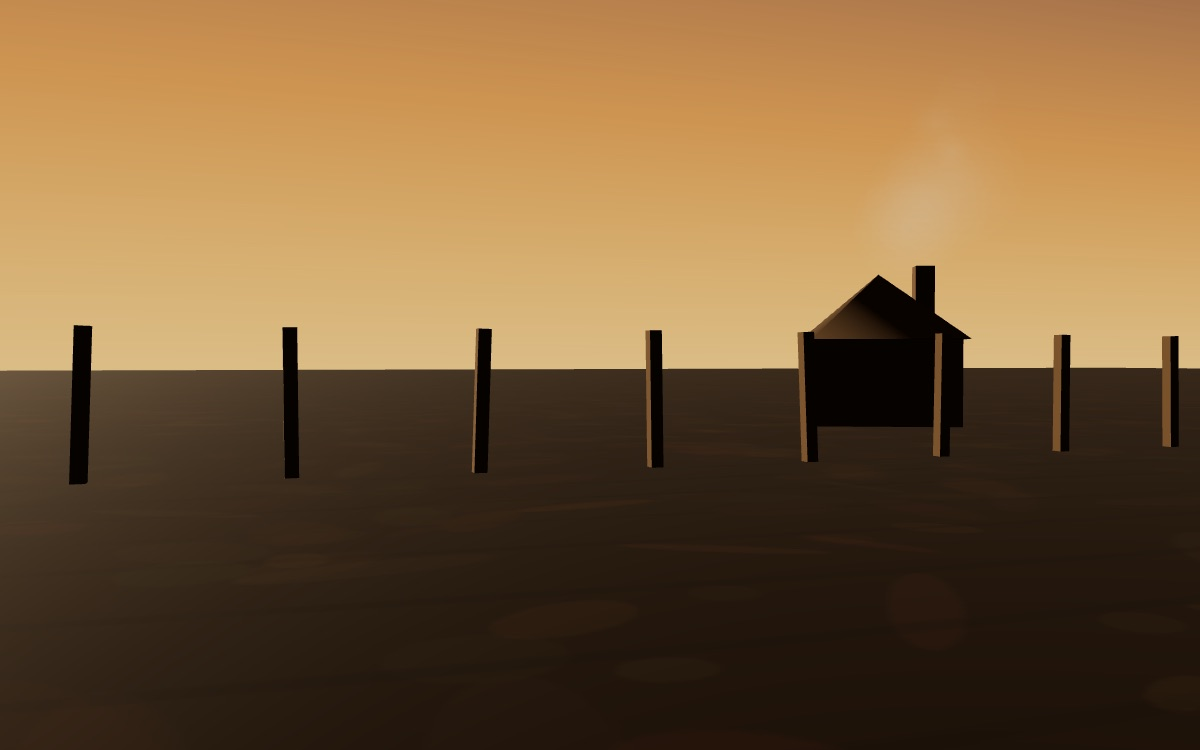
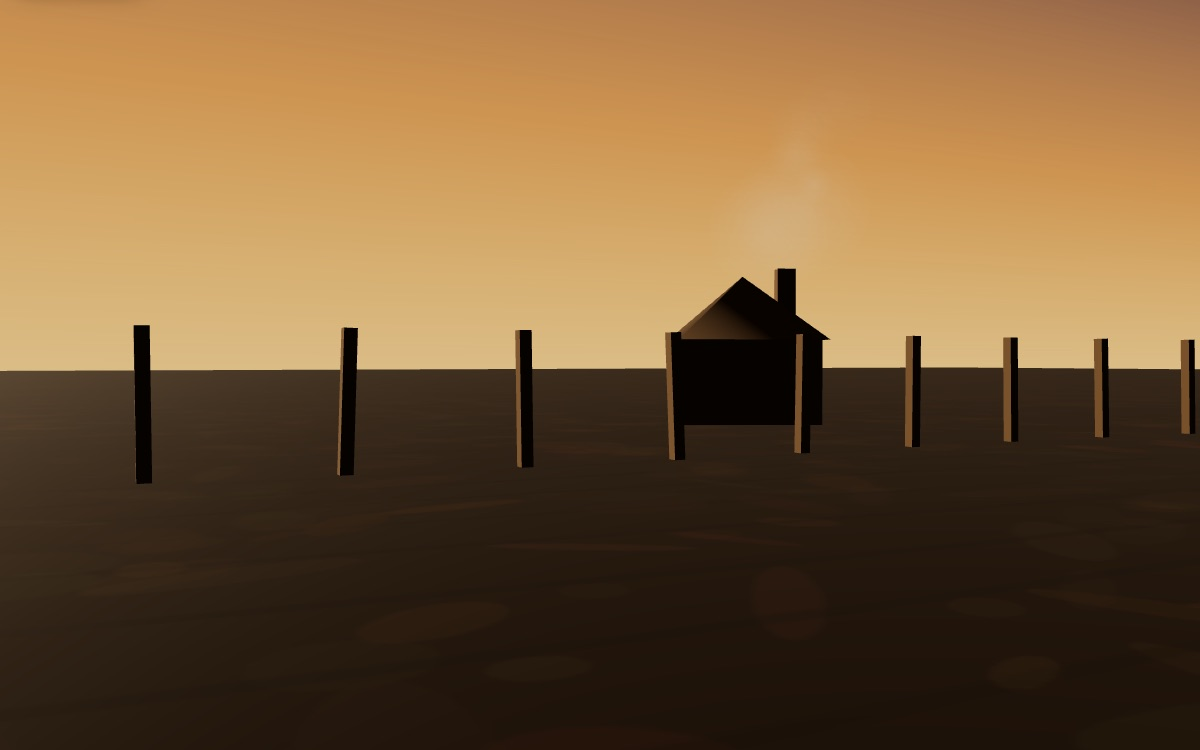
Glossaire : accumulation-primitive réécrite selon la charte, direction artistique « le plan de clôture »

diff --git a/glossaire/mondes/accumulation-primitive/essai.html b/glossaire/mondes/accumulation-primitive/essai.html
@@ -1,50 +1,79 @@
-<!-- L'ESSAI — le corps de /glossaire/accumulation-primitive. Même contrat que
-     les autres dossiers : data-s="8" = Huitième section de Roy (ch. XXVI–XXXIII),
-     « L'accumulation primitive ». Toutes les citations sont relevées dans le
-     texte que la liseuse sert, et chacune mène au passage. -->
+<!-- L'ESSAI : le corps de /glossaire/accumulation-primitive.
+     Fragment HTML, assemblé par tools/gen-seo.mjs dans le gabarit des pages
+     de notion (avec meta.json pour la tête, l'appareil et le monde).
+     Réécrit en octobre 2026 selon glossaire/mondes/CHARTE.md.
+     data-s="8" = huitième section de Roy (chapitres XXVI à XXXIII),
+     « L'accumulation primitive ». Chaque data-q est une phrase RELEVÉE dans le
+     texte que la liseuse sert, apostrophe typographique comprise : c'est elle
+     qui fait le deep-link #s=&q= vers le passage. -->
 
 <section class="nt-sec" data-etape="cercle" id="cercle">
-<h2>Un cercle dont il faut sortir</h2>
-<p>Le Livre&nbsp;I s'achève sur une question qu'il a lui-même rendue nécessaire, et il faut voir en quoi elle l'est pour comprendre pourquoi elle vient à la fin plutôt qu'au commencement. Tout ce qui précède a montré comment l'argent devient capital, comment le capital tire de la <a href="/glossaire/force-de-travail">force de travail</a> une <a href="/glossaire/plus-value">plus-value</a>, et comment cette plus-value, capitalisée, devient capital nouveau. Mais chacun de ces moments en suppose un autre&nbsp;: l'accumulation suppose la plus-value, la plus-value suppose la production capitaliste, et celle-ci suppose que se trouvent déjà rassemblées, d'un côté, des masses de moyens de production, de l'autre, des hommes qui n'ont que leurs bras. <q data-s="8" data-q="Tout ce mouvement semble donc tourner dans un cercle vicieux">Tout ce mouvement semble donc tourner dans un cercle vicieux</q>, et l'on n'en sort qu'en admettant une accumulation antérieure à l'accumulation capitaliste, celle qu'Adam Smith appelait <i>previous accumulation</i> et que Marx nommera primitive.</p>
-<p>Or l'économie politique, dès qu'elle touche à cette origine, cesse d'analyser et se met à raconter. Marx relève la substitution avec une ironie qui n'est pas seulement d'humeur, car elle désigne exactement le vice de la méthode&nbsp;:</p>
+<h2>D'où vient le premier capital&nbsp;?</h2>
+<p class="nt-lead">Les économistes répondaient par une fable&nbsp;: des gens économes auraient amassé pendant que d'autres dépensaient tout. Marx montre que cette fable tourne en rond, et que l'histoire réelle raconte une conquête.</p>
+<p>Le Livre&nbsp;I du <i>Capital</i> a expliqué comment l'argent devient capital&nbsp;: le capitaliste achète la <a href="/glossaire/force-de-travail">force de travail</a> d'un ouvrier, la fait travailler plus longtemps qu'il ne faut pour en reproduire la valeur, et empoche la différence, la <a href="/glossaire/plus-value">plus-value</a>. Cette plus-value, réinvestie, devient à son tour du capital. Chaque étape suppose pourtant la précédente. Pour qu'il y ait accumulation, il faut de la plus-value&nbsp;; pour qu'il y ait plus-value, il faut que se rencontrent sur le marché des possesseurs de moyens de production et des hommes qui n'ont que leurs bras. D'où viennent ces deux groupes&nbsp;? <q data-s="8" data-q="Tout ce mouvement semble donc tourner dans un cercle vicieux">Tout ce mouvement semble donc tourner dans un cercle vicieux</q>.</p>
+<p>Pour en sortir, il faut admettre une accumulation qui précède l'accumulation capitaliste et lui sert de point de départ. Adam Smith l'appelait <i lang="en">previous accumulation</i>&nbsp;; Roy traduit «&nbsp;accumulation primitive&nbsp;». Marx reprend le terme, mais il remarque aussitôt que l'économie politique, arrivée à ce point, cesse d'analyser et se met à raconter&nbsp;:</p>
 <blockquote data-s="8" data-q="Cette accumulation primitive joue dans l’économie politique à peu près le même rôle que le péché originel dans la théologie"><p>Cette accumulation primitive joue dans l’économie politique à peu près le même rôle que le péché originel dans la théologie. Adam mordit la pomme, et voilà le péché qui fait son entrée dans le monde.</p></blockquote>
-<p>La fable est connue&nbsp;: il y eut jadis, d'un côté, une élite diligente et économe, de l'autre des vauriens dissipant leur avoir&nbsp;; les premiers accumulèrent, les seconds n'eurent bientôt plus rien à vendre que leur peau. Ce récit a la forme d'une explication et n'en a pas la fonction, car il présuppose ce qu'il devrait établir&nbsp;: que le rapport entre celui qui possède et celui qui travaille soit un rapport d'achat et de vente. Marx lui oppose non pas une autre fable, mais une enquête&nbsp;: <q data-s="8" data-q="Dans les annales de l’histoire réelle, c’est la conquête, l’asservissement, la rapine à main armée, le règne de la force brutale, qui l’a toujours emporté">dans les annales de l'histoire réelle, c'est la conquête, l'asservissement, la rapine à main armée, le règne de la force brutale, qui l'a toujours emporté</q>.</p>
+<p>Le récit est connu. Il y aurait eu autrefois, d'un côté, une élite laborieuse, intelligente et ménagère, de l'autre une bande de coquins qui dépensaient tout. Les premiers ont entassé des trésors, les seconds n'ont bientôt plus rien eu à vendre que leur peau. Ce récit a l'allure d'une explication, mais il suppose ce qu'il devrait établir, puisqu'il imagine déjà des acheteurs et des vendeurs de travail. Marx lui oppose une enquête, et sa conclusion tient en une phrase&nbsp;: <q data-s="8" data-q="Dans les annales de l’histoire réelle, c’est la conquête, l’asservissement, la rapine à main armée, le règne de la force brutale, qui l’a toujours emporté">dans les annales de l'histoire réelle, c'est la conquête, l'asservissement, la rapine à main armée, le règne de la force brutale, qui l'a toujours emporté</q>.</p>
 </section>
 
 <section class="nt-sec" data-etape="ou" id="ou">
-<h2>Où Marx la pose&nbsp;: à la fin, et non au début</h2>
-<p>La place du concept dans le livre est elle-même un argument, et l'on manque le concept si l'on ne s'y arrête pas. L'accumulation primitive est le présupposé de tout le reste&nbsp;: sans elle, pas de vendeurs de force de travail, donc pas de plus-value, donc pas de capital. Un exposé qui suivrait l'ordre des choses commencerait par là. Marx en fait la huitième et dernière section, après que le mécanisme entier a été démonté.</p>
-<p>Ce n'est pas une négligence de composition. Tant qu'on n'a pas établi ce qu'est le capital — non une chose, mais un rapport social entre des hommes dont les uns détiennent les moyens de produire et les autres non —, on ne sait pas ce qu'il faut chercher dans le passé. On y chercherait des richesses, des trésors, des épargnes, et l'on trouverait des trésors dans toutes les sociétés sans y trouver jamais de capital. Une fois le rapport connu, la question historique devient précise&nbsp;: comment ce rapport-là s'est-il institué&nbsp;? L'ordre d'exposition inverse donc l'ordre des choses, et c'est ce qui permet à l'enquête historique d'être autre chose qu'une collection d'anecdotes.</p>
-<p>Le terrain de l'enquête est daté et localisé, ce qui distingue encore ces chapitres d'une origine mythique&nbsp;: l'Angleterre du quinzième au dix-huitième siècle, l'expropriation des cultivateurs, la législation sur les pauvres et les salaires, la genèse coloniale. Marx le dit sans détour&nbsp;: <q data-s="8" data-q="Mais la base de toute cette évolution, c’est l’expropriation des cultivateurs">mais la base de toute cette évolution, c'est l'expropriation des cultivateurs</q>, et elle ne s'est accomplie radicalement qu'en Angleterre, qui joue pour cette raison le premier rôle dans l'esquisse.</p>
+<h2>Pourquoi Marx en parle-t-il à la fin du livre&nbsp;?</h2>
+<p class="nt-lead">Parce qu'il faut savoir ce qu'est le capital avant de chercher son origine. Le capital étant un rapport entre des hommes, c'est la naissance de ce rapport qu'on doit retrouver dans le passé.</p>
+<p>L'accumulation primitive vient en premier dans l'ordre des choses&nbsp;: sans elle, pas de vendeurs de force de travail, donc pas de plus-value et pas de capital. Marx en fait pourtant la huitième et dernière section du livre, après avoir démonté tout le mécanisme. Le choix a une raison. Celui qui chercherait l'origine du capital sans savoir ce qu'il est chercherait des richesses, des trésors, des sommes épargnées. Il en trouverait dans presque toutes les sociétés, sans jamais y trouver de capital. Une fois établi que le capital est un rapport social, la question historique devient précise&nbsp;: comment des hommes en sont-ils venus à n'avoir rien d'autre à vendre que leur travail&nbsp;?</p>
+<div class="nt-ex">
+<p class="nt-ex-t">Un exemple, chez Marx</p>
+<p>Au dernier chapitre du livre, Marx raconte une mésaventure qu'il trouve chez l'économiste Edward Gibbon Wakefield. Un certain M.&nbsp;Peel part d'Angleterre pour Swan River, en Australie. Il emporte des vivres et des moyens de production pour cinquante mille livres sterling, et il a la prévoyance d'emmener trois mille personnes de la classe ouvrière, hommes, femmes et enfants. Une fois arrivé, il ne lui reste pas un domestique pour faire son lit ou lui puiser de l'eau.</p>
+<p>Ses ouvriers n'ont rien volé. Dans une colonie où la terre est encore libre, chacun peut s'établir à son compte, et personne n'est obligé de vendre son travail à M.&nbsp;Peel. Marx conclut avec ironie qu'<q data-s="8" data-q="Il n’avait oublié que d’exporter au Swan River les rapports de production anglais">il n'avait oublié que d'exporter au Swan River les rapports de production anglais</q>. L'argent, les outils et les hommes étaient là&nbsp;; le capital manquait, parce que manquait la séparation.</p>
+</div>
+<p>Le terrain de l'enquête est daté et situé, ce qui distingue ces chapitres d'un mythe des origines&nbsp;: l'Angleterre de la fin du quinzième siècle au milieu du dix-neuvième. Tous les pays d'Europe occidentale suivent le même mouvement, mais c'est en Angleterre qu'il a été mené jusqu'au bout, et Marx y prend ses exemples. Il ajoute&nbsp;: <q data-s="8" data-q="Mais la base de toute cette évolution, c’est l’expropriation des cultivateurs">mais la base de toute cette évolution, c'est l'expropriation des cultivateurs</q>.</p>
 </section>
 
 <section class="nt-sec" data-etape="separation" id="separation">
-<h2>La distinction qui fait le concept&nbsp;: séparer n'est pas amasser</h2>
-<p>Tout tient dans un déplacement du sens du mot <i>accumulation</i>, et c'est le cœur de la notion. On entend d'ordinaire par accumuler&nbsp;: mettre de côté, entasser, faire une masse. Si l'accumulation primitive était cela, elle serait une épargne très ancienne, et le capitalisme s'expliquerait par la frugalité. Or ce que Marx décrit n'est pas un entassement mais une <b>séparation</b>&nbsp;:</p>
+<h2>Que faut-il expliquer&nbsp;: une richesse amassée, ou une séparation&nbsp;?</h2>
+<p class="nt-lead">Une séparation. L'accumulation primitive est le processus qui a retiré aux producteurs la terre et les outils qui leur permettaient de vivre sans vendre leur travail.</p>
+<p>Le mot «&nbsp;accumulation&nbsp;» égare. On entend d'ordinaire par là mettre de côté, entasser. Si l'accumulation primitive était cela, elle serait une épargne très ancienne, et la fable des économistes aurait raison. Marx déplace la question&nbsp;:</p>
 <blockquote data-s="8" data-q="Au fond du système capitaliste il y a donc la séparation radicale du producteur d’avec les moyens de production"><p>Au fond du système capitaliste il y a donc la séparation radicale du producteur d’avec les moyens de production. Cette séparation se reproduit sur une échelle progressive dès que le système capitaliste s’est une fois établi&nbsp;; mais comme celle-là forme la base de celui-ci, il faut expliquer d’abord comment elle a pu s’opérer.</p></blockquote>
-<p>La distinction est décisive, en cela qu'elle change ce qu'il faut expliquer. Il ne s'agit plus de comprendre comment des richesses se sont amassées d'un côté — il y a toujours eu des riches —, mais comment une population entière a cessé d'avoir accès à ce qui lui permettait de vivre sans vendre son travail. La terre, l'outil, le droit d'usage sur les communaux&nbsp;: ce n'est pas parce que le capital les a pris qu'il est capital, c'est parce qu'ils ont été retirés à ceux qui les employaient que le travail a dû, lui, aller se vendre.</p>
-<p>De là le double sens du mot <i>libre</i>, sur lequel Marx insiste et que l'on ne peut pas rendre autrement qu'en le disant deux fois. Pour vendre sa force, il fallait d'abord que le producteur <q data-s="8" data-q="cesser d’être attaché à la glèbe">cesse d'être attaché à la glèbe</q> et échappe au régime des corporations&nbsp;: à ce titre, l'histoire est bien celle d'une émancipation, et <q data-s="8" data-q="Le mouvement historique qui convertit les producteurs en salariés se présente donc comme leur affranchissement du servage et de la hiérarchie industrielle">le mouvement historique qui convertit les producteurs en salariés se présente donc comme leur affranchissement du servage et de la hiérarchie industrielle</q>. Mais l'affranchissement ne suffit pas à faire un vendeur&nbsp;: <q data-s="8" data-q="ces affranchis ne deviennent vendeurs d’eux-mêmes qu’après avoir été dépouillés de tous leurs moyens de production">ces affranchis ne deviennent vendeurs d'eux-mêmes qu'après avoir été dépouillés de tous leurs moyens de production</q> et des garanties que l'ancien ordre leur offrait. Libre de sa personne, et libre de tout le reste&nbsp;: la seconde liberté est le nom poli d'une dépossession, et c'est elle qui fait le marché du travail.</p>
+<p>Ce qu'il faut expliquer change du même coup. Des riches, il y en a toujours eu. Ce qui est neuf, c'est qu'une population entière perde l'accès à ce qui la faisait vivre&nbsp;: la parcelle, l'outil, le droit de mener ses bêtes sur les terres communes et d'y prendre du bois. Les moyens de production, c'est-à-dire tout ce qui sert à produire (la terre, les instruments, les matières), deviennent la propriété de quelques-uns. Les autres doivent aller se vendre pour vivre.</p>
+<p>D'où le double sens que prend ici le mot «&nbsp;libre&nbsp;». Pour vendre sa force de travail, le producteur devait d'abord <q data-s="8" data-q="cesser d’être attaché à la glèbe">cesser d'être attaché à la glèbe</q> et sortir du régime des corporations. L'histoire est donc aussi celle d'une émancipation&nbsp;: <q data-s="8" data-q="Le mouvement historique qui convertit les producteurs en salariés se présente donc comme leur affranchissement du servage et de la hiérarchie industrielle">le mouvement historique qui convertit les producteurs en salariés se présente donc comme leur affranchissement du servage et de la hiérarchie industrielle</q>. Mais un homme libre de sa personne n'est pas encore un vendeur. <q data-s="8" data-q="ces affranchis ne deviennent vendeurs d’eux-mêmes qu’après avoir été dépouillés de tous leurs moyens de production">Ces affranchis ne deviennent vendeurs d'eux-mêmes qu'après avoir été dépouillés de tous leurs moyens de production</q>. Le salarié est libre deux fois&nbsp;: libre de vendre son travail à qui il veut, et libre de tout ce qui lui aurait permis de ne pas le vendre. La seconde liberté est le nom poli d'une dépossession.</p>
 </section>
 
 <section class="nt-sec" data-etape="procedes" id="procedes">
-<h2>Le mécanisme&nbsp;: ce qui a fallu faire, et qui l'a fait</h2>
-<p>L'enquête occupe six chapitres, et elle est faite de faits, de dates et de statuts. On y suit la dissolution des suites féodales, les enclosures et l'usurpation des terrains communaux, la transformation des terres d'Église en propriété privée après la Réforme, puis le <i>clearing of estates</i> qui balaie jusqu'aux villages. Marx en donne le relevé dans une phrase dont l'ironie est le seul commentaire&nbsp;:</p>
+<h2>Comment cette séparation s'est-elle faite&nbsp;?</h2>
+<p class="nt-lead">Par la force, puis par la loi. Marx suit en Angleterre la clôture des terres et l'expulsion des paysans, puis les lois qui ont contraint les expulsés à l'atelier.</p>
+<p>Le premier moteur est la laine. Les manufactures de Flandre en achètent toujours davantage, son prix monte, et la nouvelle noblesse anglaise, née après la guerre des Deux-Roses qui a dévoré l'ancienne, voit dans l'argent la puissance des puissances. <q data-s="8" data-q="Transformation des terres arables en pâturages, tel fut son cri de guerre">Transformation des terres arables en pâturages, tel fut son cri de guerre</q>. On clôt les champs ouverts et les terrains communaux, on démolit les fermes, on remplace les laboureurs par des troupeaux. Viennent ensuite la confiscation des biens de l'Église après la Réforme, puis, jusqu'au dix-neuvième siècle, ce que les Anglais appellent <i lang="en">clearing of estates</i>, le «&nbsp;nettoyage&nbsp;» des domaines. Marx en dresse le bilan dans une phrase dont l'ironie fait tout le commentaire&nbsp;:</p>
 <blockquote data-s="8" data-q="la guerre aux chaumières, voilà les procédés idylliques de l’accumulation primitive"><p>[…] le vol des biens de l’Église, l’aliénation frauduleuse des domaines de l’État, le pillage des terrains communaux, la transformation usurpatrice et terroriste de la propriété féodale ou même patriarcale en propriété moderne privée, la guerre aux chaumières, voilà les procédés idylliques de l’accumulation primitive.</p></blockquote>
-<p>Le résultat de ces procédés n'est pas seulement une redistribution de la terre&nbsp;: c'est la production d'hommes disponibles. Ils ont, écrit Marx, <q data-s="8" data-q="livré à l’industrie des villes les bras dociles d’un prolétariat sans feu ni lieu">livré à l'industrie des villes les bras dociles d'un prolétariat sans feu ni lieu</q>. Encore ces hommes ne se rangent-ils pas d'eux-mêmes à la discipline de l'atelier&nbsp;; jetés hors de leurs conditions d'existence plus vite que la manufacture naissante ne peut les absorber, ils vagabondent, et l'on répond au vagabondage par le fouet, la marque au fer et la potence. Le chapitre XXVIII est consacré à cette législation, et sa conclusion est d'une netteté qu'aucune paraphrase n'améliore&nbsp;: la population des campagnes, violemment expropriée, <q data-s="8" data-q="a été rompue à la discipline qu’exige le système du salariat par des lois d’un terrorisme grotesque">a été rompue à la discipline qu'exige le système du salariat par des lois d'un terrorisme grotesque</q>.</p>
-<p>Un troisième moment complète le tableau, et il déborde l'Angleterre&nbsp;: la genèse du capitaliste industriel, faite du système colonial, des dettes publiques, du régime fiscal et du protectionnisme. Marx y range, du même ton, la découverte des gisements d'or et d'argent en Amérique, l'ensevelissement des populations indigènes dans les mines, le pillage des Indes orientales et <q data-s="8" data-q="la transformation de l’Afrique en une sorte de garenne commerciale pour la chasse aux peaux noires">la transformation de l'Afrique en une sorte de garenne commerciale pour la chasse aux peaux noires</q>. Ce sont là, dit-il, les procédés qui signalent l'ère capitaliste à son aurore. On voit ce que l'expression « accumulation primitive » recouvre, et pourquoi Marx refuse d'en parler comme d'une épargne&nbsp;: <q data-s="8" data-q="elle est écrite dans les annales de l’humanité en lettres de sang et de feu indélébiles">elle est écrite dans les annales de l'humanité en lettres de sang et de feu indélébiles</q>.</p>
+<div class="nt-ex">
+<p class="nt-ex-t">Un exemple, chez Marx&nbsp;: le comté de Sutherland</p>
+<p>Au nord de l'Écosse, les terres appartenaient au clan depuis des siècles. Au début du dix-neuvième siècle, la duchesse de Sutherland décide de faire de tout le comté un pâturage. Marx donne les chiffres&nbsp;: <q data-s="8" data-q="De 1814 à 1820, ces quinze mille individus, formant environ trois mille familles, furent systématiquement expulsés">de 1814 à 1820, ces quinze mille individus, formant environ trois mille familles, furent systématiquement expulsés</q>. <q data-s="8" data-q="Leurs villages furent détruits et brûlés, leurs champs convertis en pâturages">Leurs villages furent détruits et brûlés, leurs champs convertis en pâturages</q>, et des soldats prêtèrent main-forte.</p>
+<p>La terre conquise est partagée en vingt-neuf grandes fermes à moutons. En 1825, d'après le même chapitre, cent trente et un mille moutons ont pris la place des quinze mille habitants. Une partie des expulsés reçoit des terres incultes au bord de la mer, et la duchesse les leur afferme. Ils se font pêcheurs&nbsp;; Marx rapporte qu'on les chassera une seconde fois, quand le rivage sera affermé à de gros mareyeurs de Londres.</p>
+</div>
+<div data-planche="grummore"></div>
+<p>L'expulsion produit des hommes disponibles. Ces procédés, écrit Marx, ont <q data-s="8" data-q="livré à l’industrie des villes les bras dociles d’un prolétariat sans feu ni lieu">livré à l'industrie des villes les bras dociles d'un prolétariat sans feu ni lieu</q>. Encore ces hommes ne se rangent-ils pas d'eux-mêmes à la discipline de l'atelier. Chassés plus vite que la manufacture ne peut les employer, ils mendient et vagabondent, et l'on répond par le fouet, le fer rouge et la potence. Le chapitre XXVIII décrit cette législation, que le site présente à la page de la <a href="/glossaire/legislation-sanglante">législation sanglante</a>, et il conclut que la population des campagnes <q data-s="8" data-q="a été rompue à la discipline qu’exige le système du salariat par des lois d’un terrorisme grotesque">a été rompue à la discipline qu'exige le système du salariat par des lois d'un terrorisme grotesque</q>.</p>
+<p>Le tableau déborde l'Angleterre. La genèse du capitaliste industriel passe par le système colonial, les dettes publiques, l'impôt et le protectionnisme. Marx y range, du même ton, l'or et l'argent d'Amérique, les indigènes réduits en esclavage et ensevelis dans les mines, le pillage des Indes orientales et <q data-s="8" data-q="la transformation de l’Afrique en une sorte de garenne commerciale pour la chasse aux peaux noires">la transformation de l'Afrique en une sorte de garenne commerciale pour la chasse aux peaux noires</q>. On voit ce que recouvre l'expression savante. L'histoire de cette expropriation <q data-s="8" data-q="elle est écrite dans les annales de l’humanité en lettres de sang et de feu indélébiles">est écrite dans les annales de l'humanité en lettres de sang et de feu indélébiles</q>.</p>
 </section>
 
 <section class="nt-sec" data-etape="ouvre" id="ouvre">
-<h2>Ce que le concept ouvre&nbsp;: le capital a une date</h2>
-<p>La portée de ces chapitres n'est pas d'ajouter un tableau historique à une démonstration théorique achevée&nbsp;: elle est de retirer au capital le caractère de nature que l'économie politique lui prête. Si le rapport de capital a été institué, à telle époque, par tels moyens, contre telles résistances, alors il n'est ni éternel ni spontané&nbsp;: il est un fait d'histoire, et ce qui a commencé peut finir. C'est en ce sens que Marx écrit que <q data-s="8" data-q="la force est l’accoucheuse de toute vieille société en travail">la force est l'accoucheuse de toute vieille société en travail</q>, et qu'il ajoute aussitôt, contre l'idée que la violence serait extérieure à l'économie, qu'elle est elle-même <q data-s="8" data-q="La force est un agent économique">un agent économique</q>. La phrase est dirigée contre une séparation commode entre le doux commerce et la brutalité politique&nbsp;: c'est la même histoire.</p>
-<p>De là aussi le mot par lequel se ferme le chapitre XXXI, et qui est peut-être la ligne la plus dure du livre&nbsp;: si l'argent, selon Augier, est venu au monde avec une tache de sang sur la joue, <q data-s="8" data-q="le capital y arrive suant le sang et la boue par tous les pores">le capital y arrive suant le sang et la boue par tous les pores</q>.</p>
-<p>Le dernier chapitre tire de cette genèse une tendance. La production capitaliste, en centralisant les moyens de production et en socialisant le travail, produit les conditions d'un dépassement dont elle-même serait l'objet&nbsp;; le mouvement qui a exproprié la masse des petits producteurs se retourne alors contre le petit nombre qui en a bénéficié — <q data-s="8" data-q="Les expropriateurs sont à leur tour expropriés">les expropriateurs sont à leur tour expropriés</q>. Marx nomme cela <q data-s="8" data-q="C’est la négation de la négation">la négation de la négation</q>, et précise ce qu'elle rétablirait&nbsp;: non la propriété privée du travailleur d'autrefois, mais une propriété individuelle fondée sur les acquêts de l'ère capitaliste, c'est-à-dire sur la coopération et la possession commune des moyens de production. Nous tenons cette page pour une conclusion de tendance et non pour une prophétie datée&nbsp;: elle dit ce que le mouvement rend possible, non ce qu'il garantit.</p>
+<h2>Que change le fait que le capital ait une histoire&nbsp;?</h2>
+<p class="nt-lead">Il cesse d'apparaître comme un fait de nature. Ce qui a commencé à une date, par des moyens qu'on peut décrire, peut aussi finir.</p>
+<p>L'économie politique présentait le rapport entre le capitaliste et le salarié comme naturel, aussi ancien que l'échange lui-même. Les chapitres de la huitième section lui retirent ce caractère. Si le rapport de capital a été établi à une époque donnée, par des moyens qu'on peut nommer et contre des gens qui ont résisté, il appartient à l'histoire. C'est dans ce sens que Marx écrit que <q data-s="8" data-q="la force est l’accoucheuse de toute vieille société en travail">la force est l'accoucheuse de toute vieille société en travail</q>. Il ajoute aussitôt que la force est elle-même <q data-s="8" data-q="La force est un agent économique">un agent économique</q>. La phrase vise une séparation commode entre le commerce, qui serait paisible, et la politique, qui serait brutale. Dans l'histoire que Marx raconte, l'une sert l'autre.</p>
+<p>Le chapitre XXXI se ferme sur l'image la plus dure du livre. Un auteur que Marx cite, Augier, avait écrit que l'argent est venu au monde avec des taches naturelles de sang sur une de ses faces. Marx renchérit&nbsp;: <q data-s="8" data-q="le capital y arrive suant le sang et la boue par tous les pores">le capital y arrive suant le sang et la boue par tous les pores</q>.</p>
+<p>Le chapitre XXXII tire de cette histoire une tendance. En concentrant les moyens de production et en faisant travailler ensemble des masses d'ouvriers, la production capitaliste prépare les conditions de son propre dépassement. Le mouvement qui a exproprié les petits producteurs se retourne contre le petit nombre qui en a profité&nbsp;: <q data-s="8" data-q="Les expropriateurs sont à leur tour expropriés">les expropriateurs sont à leur tour expropriés</q>. Marx nomme ce retournement <q data-s="8" data-q="C’est la négation de la négation">la négation de la négation</q>. Ce qu'il annonce, et qu'il distingue de la petite propriété d'autrefois, est une propriété individuelle fondée sur les acquis de l'ère capitaliste&nbsp;: la coopération et la possession commune de tous les moyens de production, y compris le sol. Nous lisons cette page comme l'énoncé d'une tendance&nbsp;: elle dit ce que le mouvement rend possible, sans en fixer la date ni le garantir.</p>
 </section>
 
 <section class="nt-sec" data-etape="lectures" id="lectures">
-<h2>Lectures, et contresens</h2>
-<p>Le premier contresens tient au mot. « Primitive » traduit l'allemand <i>ursprünglich</i>, qui dit l'originaire, ce qui est au commencement d'un mouvement — et non le primitif au sens de rudimentaire ou d'archaïque. Marx emploie d'ailleurs l'expression avec une distance visible, puisqu'il la reçoit de l'économie politique dont il conteste l'usage. Lire « accumulation originaire » évite d'y entendre un stade antérieur de l'humanité&nbsp;: il s'agit du commencement d'un rapport, non d'une enfance de l'espèce.</p>
-<p>Le deuxième contresens est de croire que l'affaire est close, et que ces chapitres décrivent un préalable révolu une fois pour toutes. Le texte lui-même l'interdit, en cela qu'il note que la séparation du producteur d'avec ses moyens de production <q data-s="8" data-q="se reproduit sur une échelle progressive">se reproduit sur une échelle progressive</q> une fois le système établi. La séparation n'est donc pas seulement l'origine du rapport&nbsp;: elle en est aussi l'effet continué. Ce qui appartient au passé, c'est la première institution de ce rapport dans un monde qui l'ignorait&nbsp;; le mouvement qui dépossède, lui, n'a pas de raison de s'arrêter, et l'on peut suivre son travail partout où des ressources d'usage commun deviennent des propriétés que l'on achète.</p>
-<p>Le troisième contresens ferait de ces chapitres un réquisitoire moral. L'intention de Marx n'est pas de dire que le capital est né dans le crime et qu'il en reste souillé&nbsp;: elle est de montrer que le rapport de capital ne pouvait pas naître de l'échange, puisque l'échange le suppose. La violence n'est pas ici un supplément d'indignation, c'est la réponse à une question logique&nbsp;: si le marché ne peut pas produire ses propres conditions, il a bien fallu que quelque chose les produisît. Nous nous rangeons pour cette raison du côté des lectures qui tiennent la huitième section pour une partie de la démonstration, et non pour son appendice historique.</p>
-<p>Reste enfin à ne pas confondre l'accumulation primitive avec l'<a href="/glossaire/plus-value">accumulation</a> tout court. La seconde est le mouvement ordinaire du capital, qui reconvertit en capital une part de la plus-value&nbsp;; la première est ce qui a dû avoir lieu pour que la seconde puisse commencer. L'une suppose le rapport et le reproduit&nbsp;; l'autre l'institue. C'est pourquoi le livre ne pouvait s'achever que là&nbsp;: après avoir montré comment le capital se reproduit, il fallait dire comment il a commencé.</p>
+<h2>Comment lire ces chapitres, et quels contresens éviter&nbsp;?</h2>
+<p class="nt-lead">Ces chapitres font partie de la démonstration&nbsp;: ils répondent à une question que la théorie a elle-même posée. Trois contresens courants se corrigent en relisant le texte.</p>
+<p>Il faut d'abord distinguer l'accumulation primitive de l'<a href="/glossaire/accumulation">accumulation</a> tout court. La seconde est le mouvement ordinaire du capital, qui transforme en capital nouveau une partie de la plus-value. La première est ce qui a dû se passer pour que la seconde puisse commencer. L'une suppose le rapport entre capitaliste et salarié et le reproduit&nbsp;; l'autre l'établit. Le titre allemand du chapitre marque d'ailleurs la distance de Marx envers l'expression&nbsp;: il parle de la «&nbsp;soi-disant&nbsp;» accumulation originaire, <i lang="de">die sogenannte ursprüngliche Akkumulation</i>, parce que le mot vient des économistes qu'il critique.</p>
+<div class="nt-cs">
+<p><span class="nt-cs-k">On lit souvent</span> «&nbsp;Primitive&nbsp;» désignerait un stade archaïque de l'humanité, une économie encore rudimentaire.</p>
+<p><span class="nt-cs-k">Ce que dit le texte</span> L'allemand <i lang="de">ursprünglich</i> veut dire originaire&nbsp;: ce qui se trouve au commencement d'un mouvement. Il s'agit de la naissance d'un rapport social, en Angleterre, entre le quinzième et le dix-neuvième siècle, et non d'une enfance de l'espèce.</p>
+</div>
+<div class="nt-cs">
+<p><span class="nt-cs-k">On lit souvent</span> L'accumulation primitive serait un préalable révolu&nbsp;: une violence d'autrefois, close une fois le capitalisme installé.</p>
+<p><span class="nt-cs-k">Ce que dit le texte</span> Marx note que la séparation du producteur et de ses moyens de production <q data-s="8" data-q="se reproduit sur une échelle progressive">se reproduit sur une échelle progressive</q> dès que le système est établi. Ce qui appartient au passé, c'est sa première institution. Le mouvement qui dépossède continue partout où des ressources d'usage commun deviennent des biens qu'il faut acheter.</p>
+</div>
+<div class="nt-cs">
+<p><span class="nt-cs-k">On lit souvent</span> Ces chapitres seraient un réquisitoire moral&nbsp;: le capital serait né dans le crime et en resterait souillé.</p>
+<p><span class="nt-cs-k">Ce que dit le texte</span> L'indignation est là, mais elle sert un argument. Le rapport de capital ne pouvait pas naître de l'échange, puisque l'échange le suppose&nbsp;; il a donc fallu que quelque chose d'autre produise ses conditions. La violence répond à cette question logique. Nous tenons pour cette raison la huitième section pour une partie de la démonstration, et non pour son appendice historique.</p>
+</div>
 </section>

diff --git a/glossaire/mondes/accumulation-primitive/monde.js b/glossaire/mondes/accumulation-primitive/monde.js
@@ -192,14 +192,9 @@ window.LM_MONDE = function (canvas) {
     cz = lerp(cz, 12.5, st.recul); cy = lerp(cy, 1.72, st.recul);
     var camA = V3(lerp(3.2, 3.6, q), lerp(1.05, 1.15, q), lerp(-7.0, -9.5, q));
     camera.position.set(cx + 0.03 * Math.sin(T * 0.21), cy + 0.02 * Math.sin(T * 0.31), cz);
-    /* la colonne de texte occupe la gauche : on vise à GAUCHE du sujet, d'une
-       part proportionnelle à la distance et plafonnée — ici le sujet est une
-       LIGNE qui traverse tout le champ, on décale donc peu : c'est la
-       chaumière et le clos qui doivent tenir dans la moitié droite */
-    var dist = camera.position.distanceTo(camA);
-    var fwd = new THREE.Vector3().subVectors(camA, camera.position).normalize();
-    var right = new THREE.Vector3().crossVectors(fwd, V3(0, 1, 0)).normalize();
-    aim.copy(camA).addScaledVector(right, -Math.min(0.20 * dist, 2.6));
+    /* la scène est une FIGURE en bas de page (et non plus un fond derrière
+       la colonne de texte) : la caméra vise le sujet, sans décalage */
+    aim.copy(camA);
     camera.lookAt(aim);
     render();
   }
